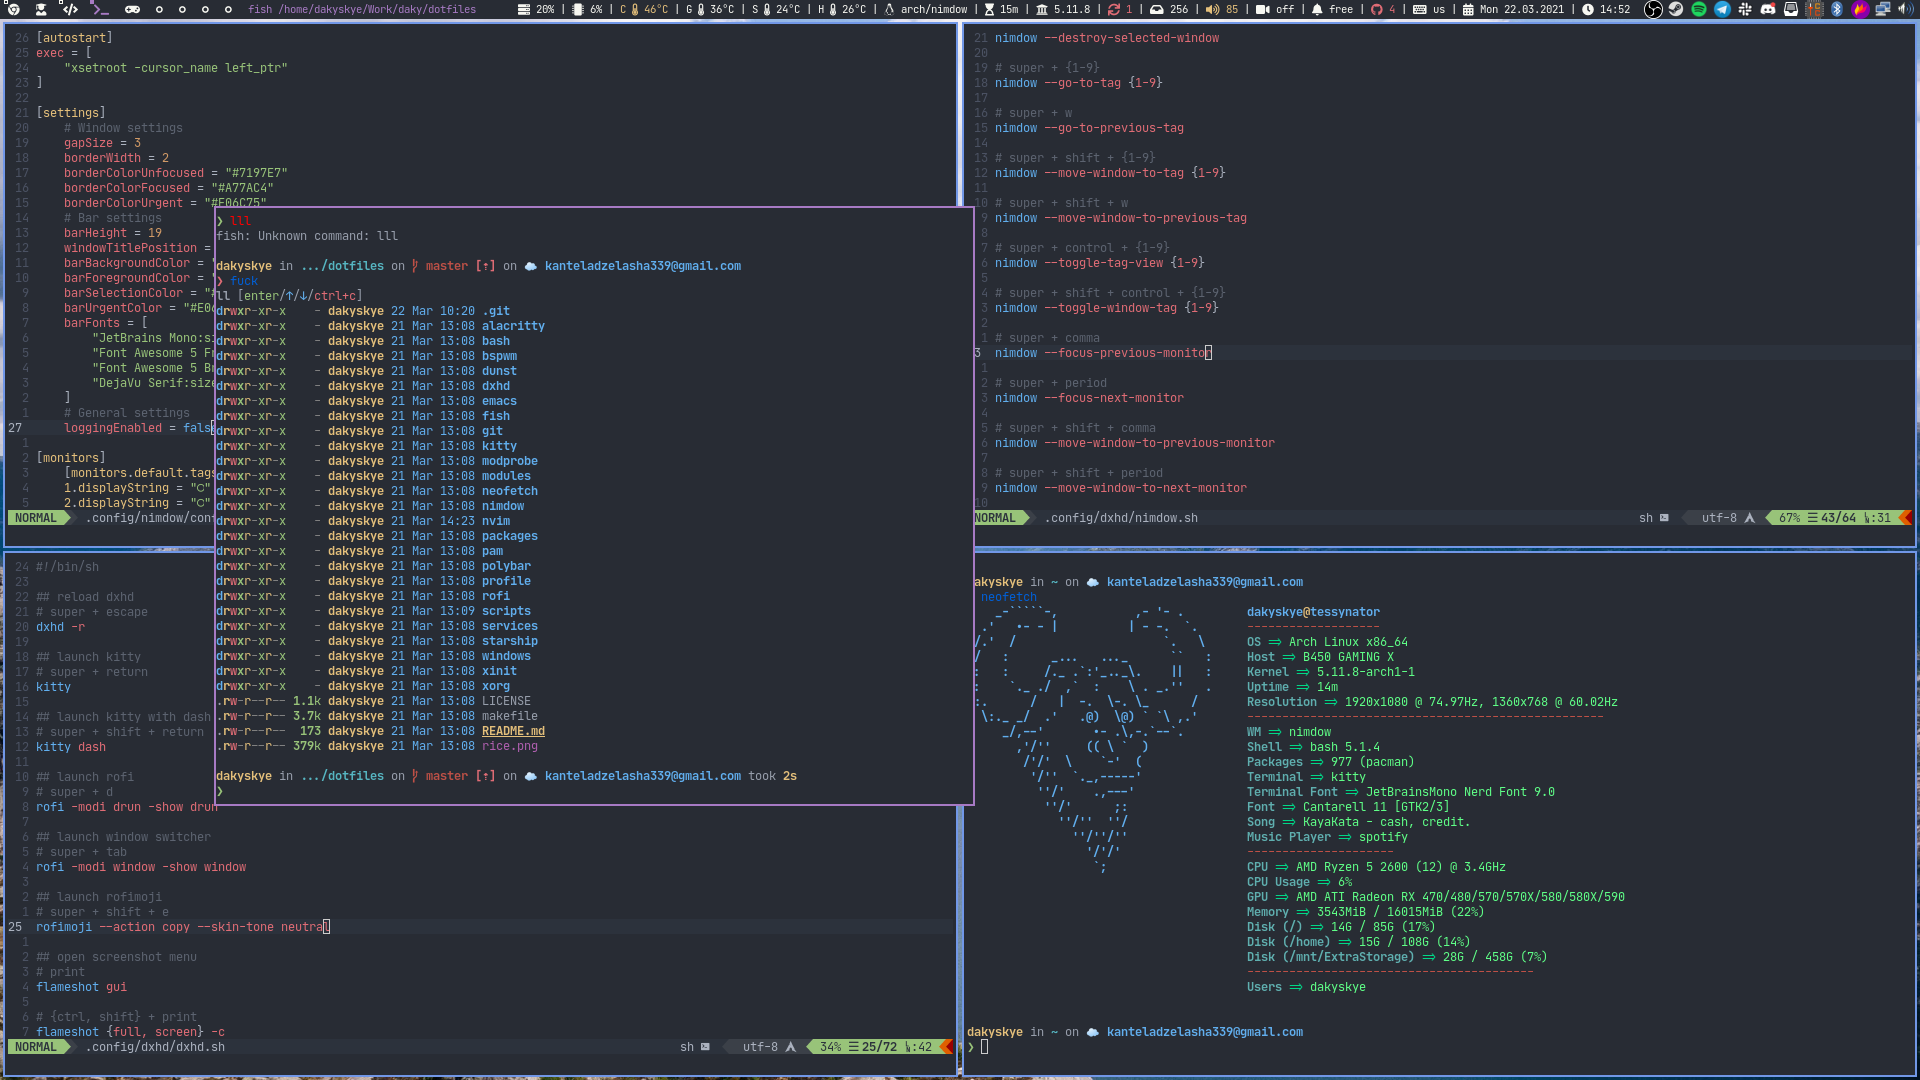
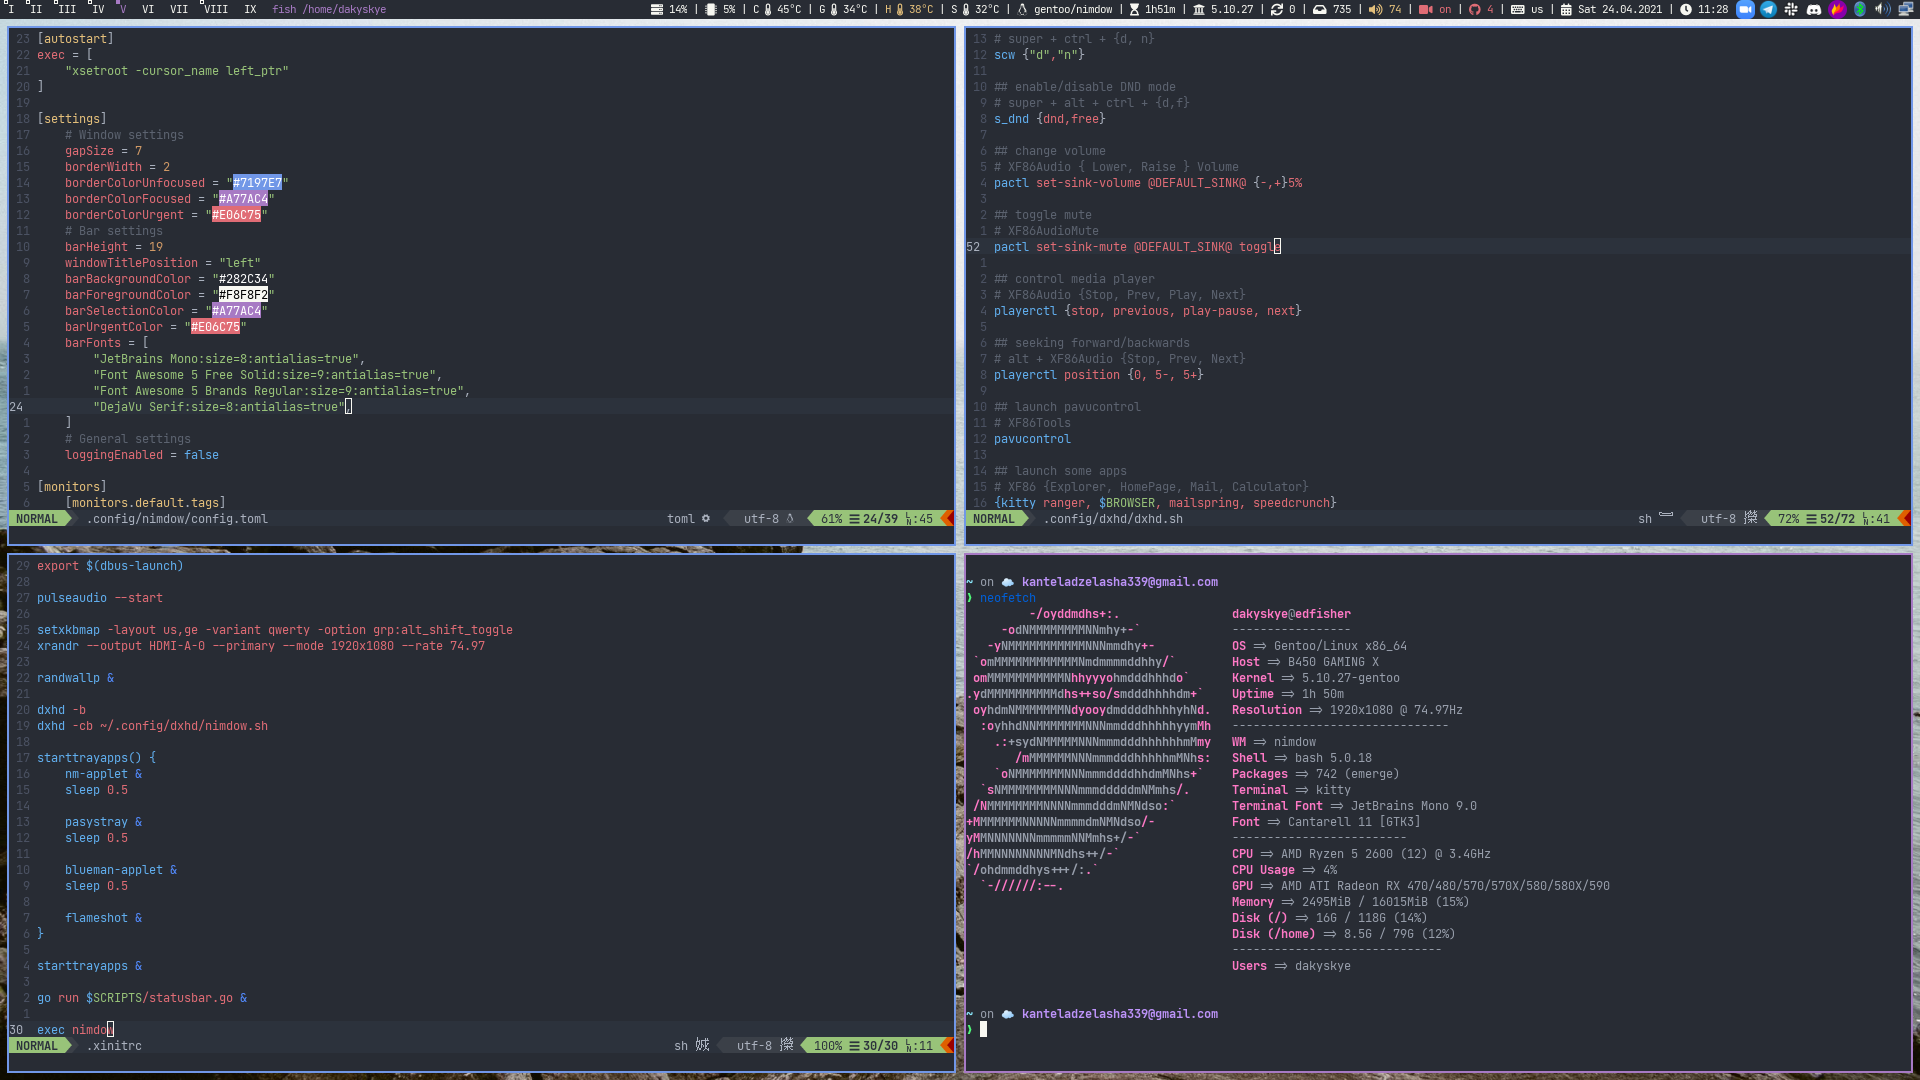
updated rice info

Changed region(s): [[0.0, 0.0, 1.0, 1.0], [0.2812, 0.7028, 0.4062, 0.7333], [0.2812, 0.2444, 0.375, 0.275]]

diff --git a/README.md b/README.md
@@ -1,9 +1,7 @@
 # .dotfiles
 
-My personaloLinux and Windows (inside windowswsl folder) dotfiles.
+Welcome to the gentoo branch, the primary branch, of my dotfiles.
+
+Old, Arch dotfiles are available [in master branch](https://github.com/dakyskye/dotfiles/tree/master)
 
 ![rice](./rice.png)
-
-## License
-
-Licensed under the [**MIT**](https://choosealicense.com/licenses/mit/) license.
